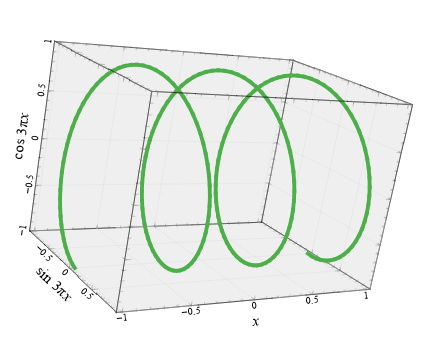
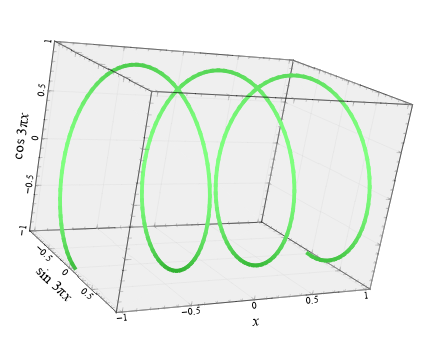
Switch on reflective line

diff --git a/_posts/2018-06-03-veusz-3d.md b/_posts/2018-06-03-veusz-3d.md
@@ -51,14 +51,15 @@ the default automatic scaling, the size on the page does not change.
 
 ### Lighting
 
-The colour of solid surfaces is determined by their intrinsic colour,
-plus an additive effect of lighting. The angle from the light source,
-the light source colour and intensity and the surface reflectively are
-used to calculate an additional colour contribution to the surface. Up
-to three light sources can be defined in the scene. The position of
-the light sources are defined relative to the camera or viewer, not
-the graph. Positive values for X, Y and Z positions lie to the right,
-upwards and towards the graph, respectively.
+The colour of solid surfaces and lines is determined by their
+intrinsic colour, plus an additive effect of lighting. The angle from
+the light source, the light source colour and intensity and the
+surface reflectively are used to calculate an additional colour
+contribution to the surface. Up to three light sources can be defined
+in the scene. The position of the light sources are defined relative
+to the camera or viewer, not the graph. Positive values for X, Y and Z
+positions lie to the right, upwards and towards the graph,
+respectively.
 
 |[Light angle 1](/media/3d_refl_1.vsz) |[Light angle 2](/media/3d_refl_2.vsz) |
 |--------------------------------------|--------------------------------------|
